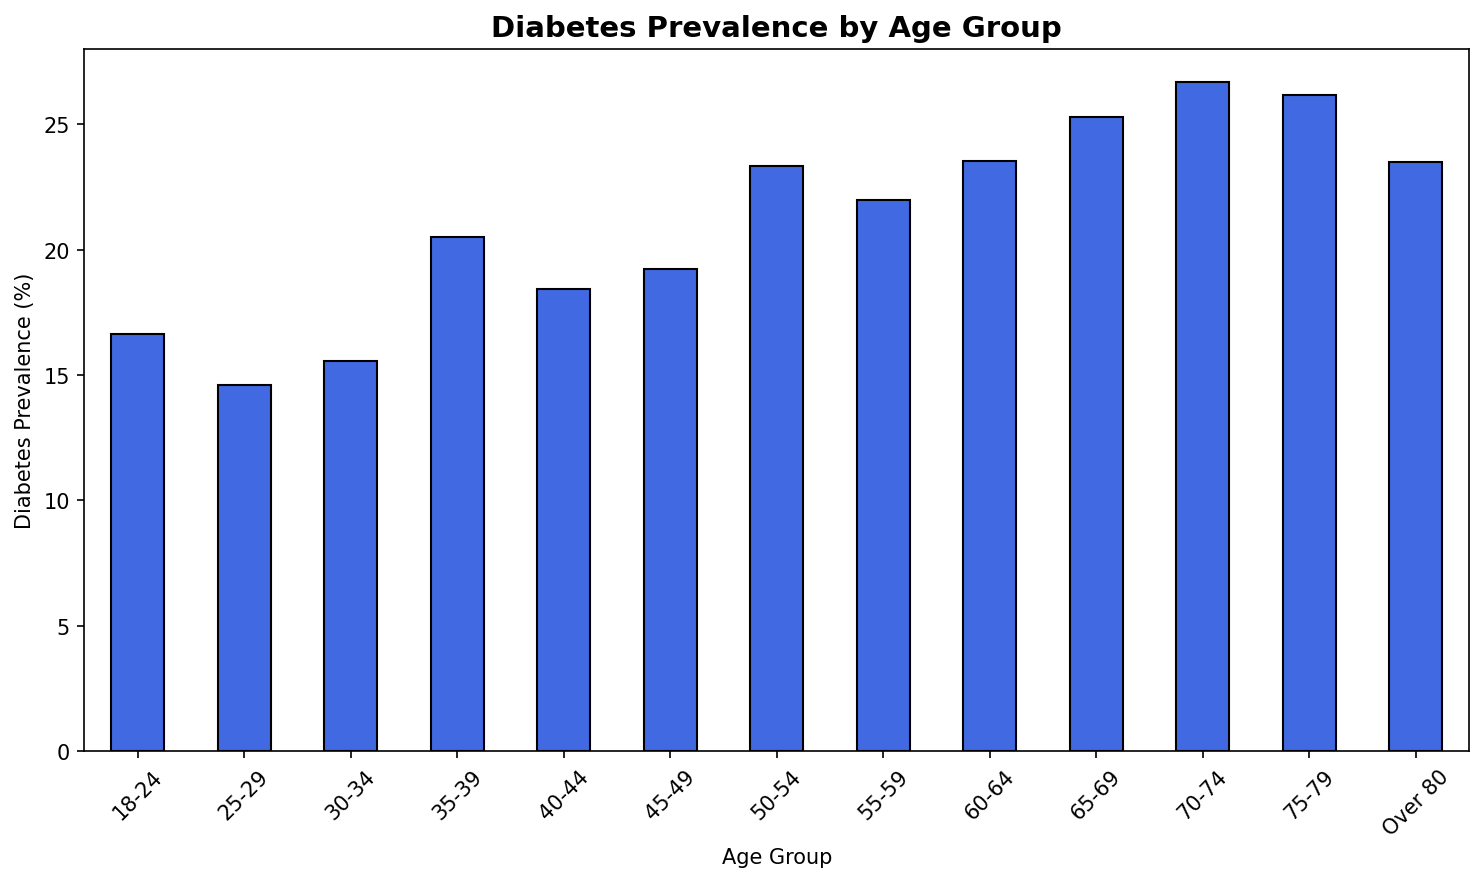
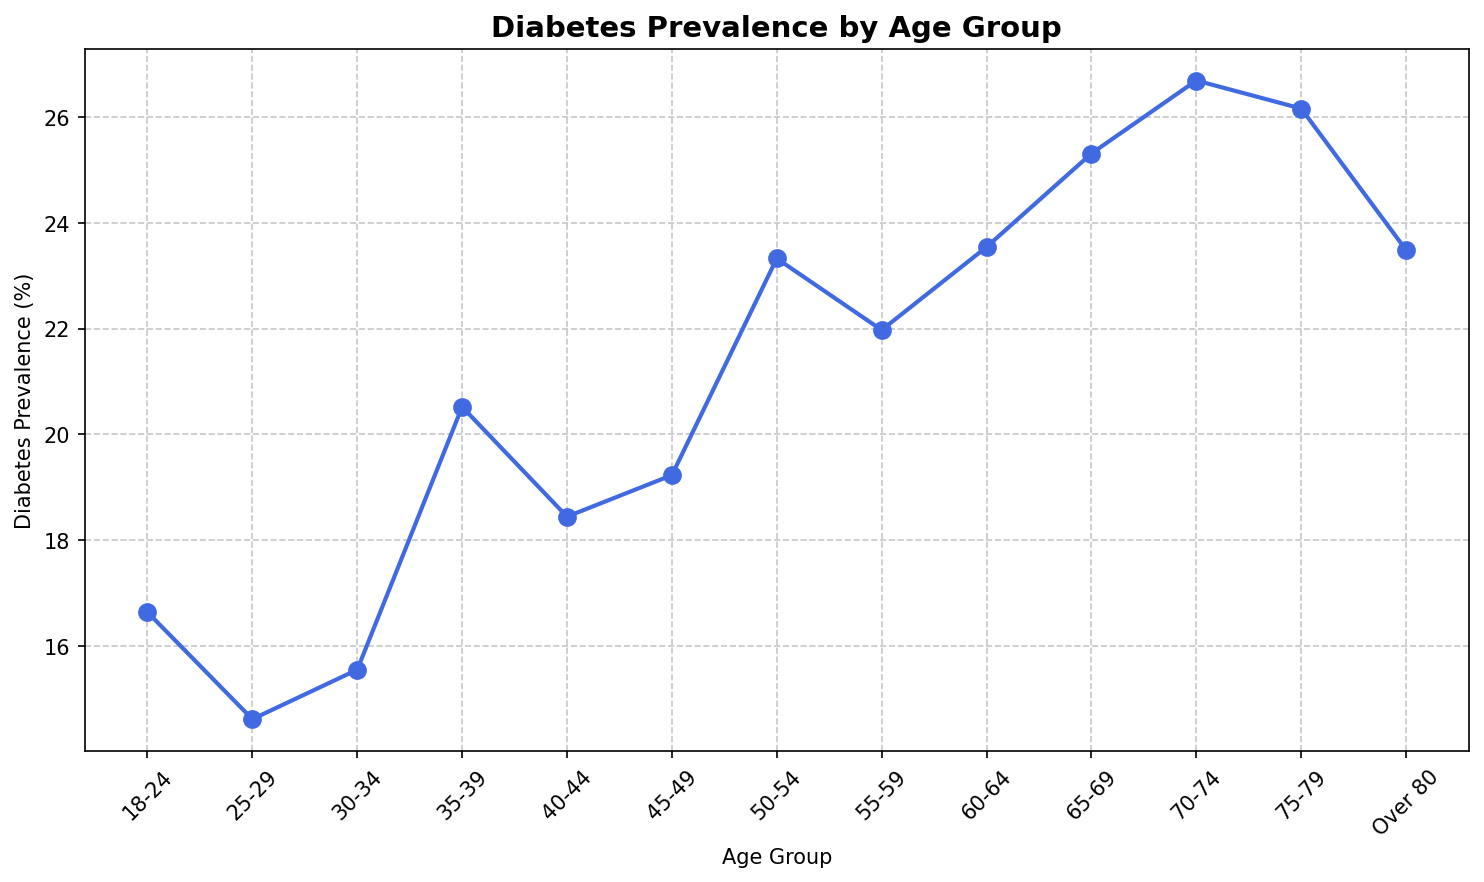
Final code!

diff --git a/main.py b/main.py
@@ -13,6 +13,16 @@ df_indicators = pd.read_csv('./datasets/diabetes_012_health_indicators_BRFSS2015
 # > Healthcare Diabetes Dataset...
 df_healthcare = pd.read_csv('./datasets/Healthcare-Diabetes.csv')
 # * Link: https://www.kaggle.com/datasets/nanditapore/healthcare-diabetes
+
+# Print original dataset sizes
+print("=" * 60)
+print("ORIGINAL DATASET SIZES (before cleaning):")
+print("=" * 60)
+print(f"df_lifestyle:  {len(df_lifestyle):,} rows")
+print(f"df_indicators: {len(df_indicators):,} rows")
+print(f"df_healthcare: {len(df_healthcare):,} rows")
+print(f"TOTAL:         {len(df_lifestyle) + len(df_indicators) + len(df_healthcare):,} rows")
+print("=" * 60)
 # ============================================================================
 
 
@@ -161,6 +171,16 @@ df_lifestyle['HighChol'] = (df_lifestyle['Cholesterol'] >= 200).astype(int)
 df_lifestyle = df_lifestyle.dropna()
 df_indicators = df_indicators.dropna()
 df_healthcare = df_healthcare.dropna()
+
+# Print dataset sizes after cleaning
+print("\n" + "=" * 60)
+print("DATASET SIZES AFTER DROPPING MISSING VALUES:")
+print("=" * 60)
+print(f"df_lifestyle:  {len(df_lifestyle):,} rows")
+print(f"df_indicators: {len(df_indicators):,} rows")
+print(f"df_healthcare: {len(df_healthcare):,} rows")
+print(f"TOTAL:         {len(df_lifestyle) + len(df_indicators) + len(df_healthcare):,} rows")
+print("=" * 60)
 # ============================================================================
 
 
@@ -196,6 +216,14 @@ df_healthcare_common_general = df_healthcare[common_columns_general].copy()
 df_healthcare_common_general['Source'] = 'healthcare'
 
 df_common_general = pd.concat([df_lifestyle_common_general, df_indicators_common_general, df_healthcare_common_general], ignore_index=True)
+
+# Print merged dataset sizes
+print("\n" + "=" * 60)
+print("MERGED DATASET SIZES:")
+print("=" * 60)
+print(f"df_common (lifestyle + indicators):         {len(df_common):,} rows")
+print(f"df_common_general (all 3 datasets):         {len(df_common_general):,} rows")
+print("=" * 60 + "\n")
 # ============================================================================
 
 
@@ -233,11 +261,12 @@ fig2, ax2 = plt.subplots(figsize=(10, 6))
 age_order = ['18-24', '25-29', '30-34', '35-39', '40-44', '45-49', '50-54', '55-59', '60-64', '65-69', '70-74', '75-79', 'Over 80']
 diabetes_by_age = df_common_general.groupby('Age_Group')['Diabetes_Binary'].mean() * 100
 diabetes_by_age = diabetes_by_age.reindex(age_order)
-diabetes_by_age.plot(kind='bar', ax=ax2, color='royalblue', edgecolor='black')
+ax2.plot(diabetes_by_age.index, diabetes_by_age.values, marker='o', linewidth=2, markersize=8, color='royalblue')
 ax2.set_title('Diabetes Prevalence by Age Group', fontsize=14, fontweight='bold')
 ax2.set_xlabel('Age Group')
 ax2.set_ylabel('Diabetes Prevalence (%)')
 ax2.tick_params(axis='x', rotation=45)
+ax2.grid(True, linestyle='--', alpha=0.7)
 plt.tight_layout()
 plt.savefig('./results/viz2_age_group.png', dpi=150, bbox_inches='tight')
 
